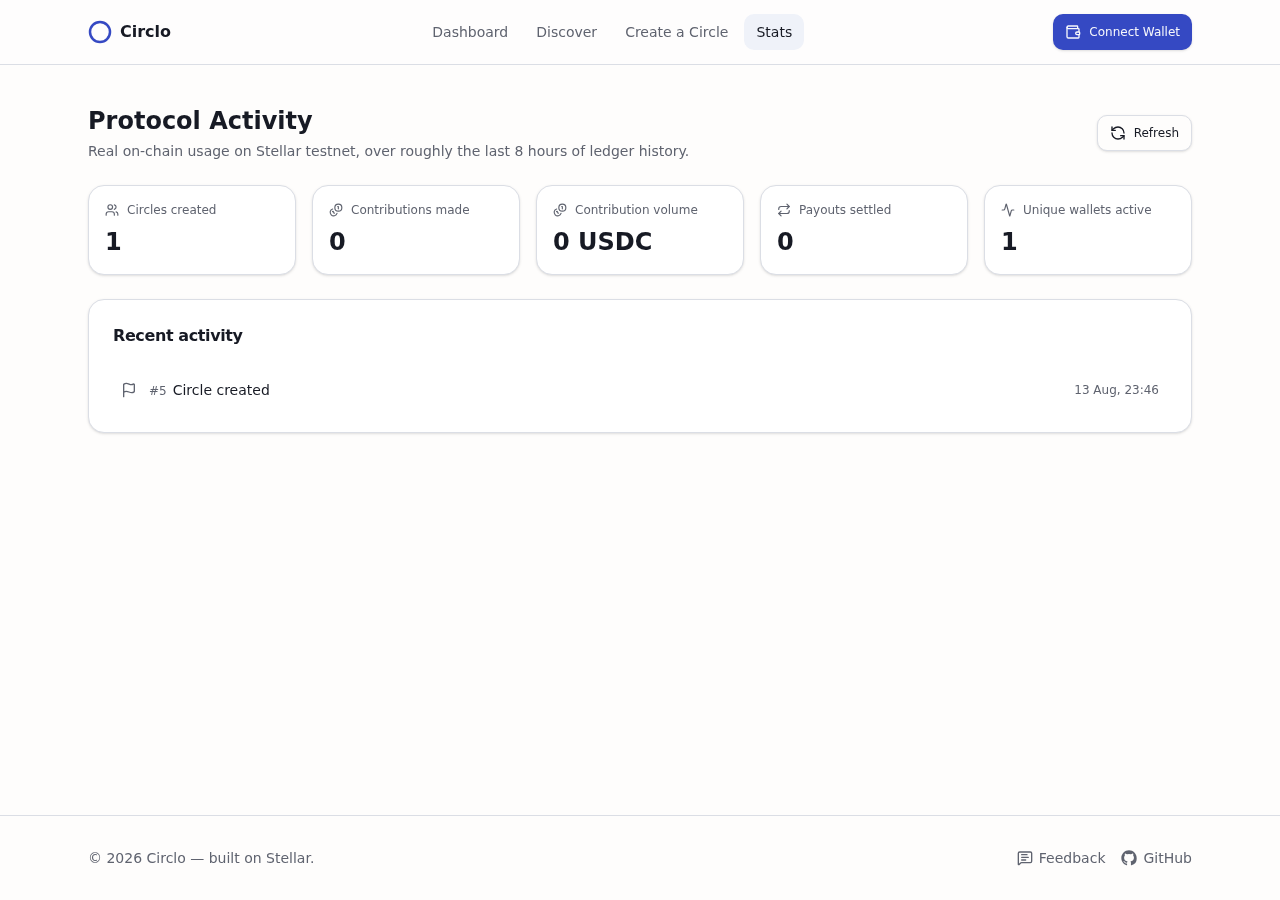
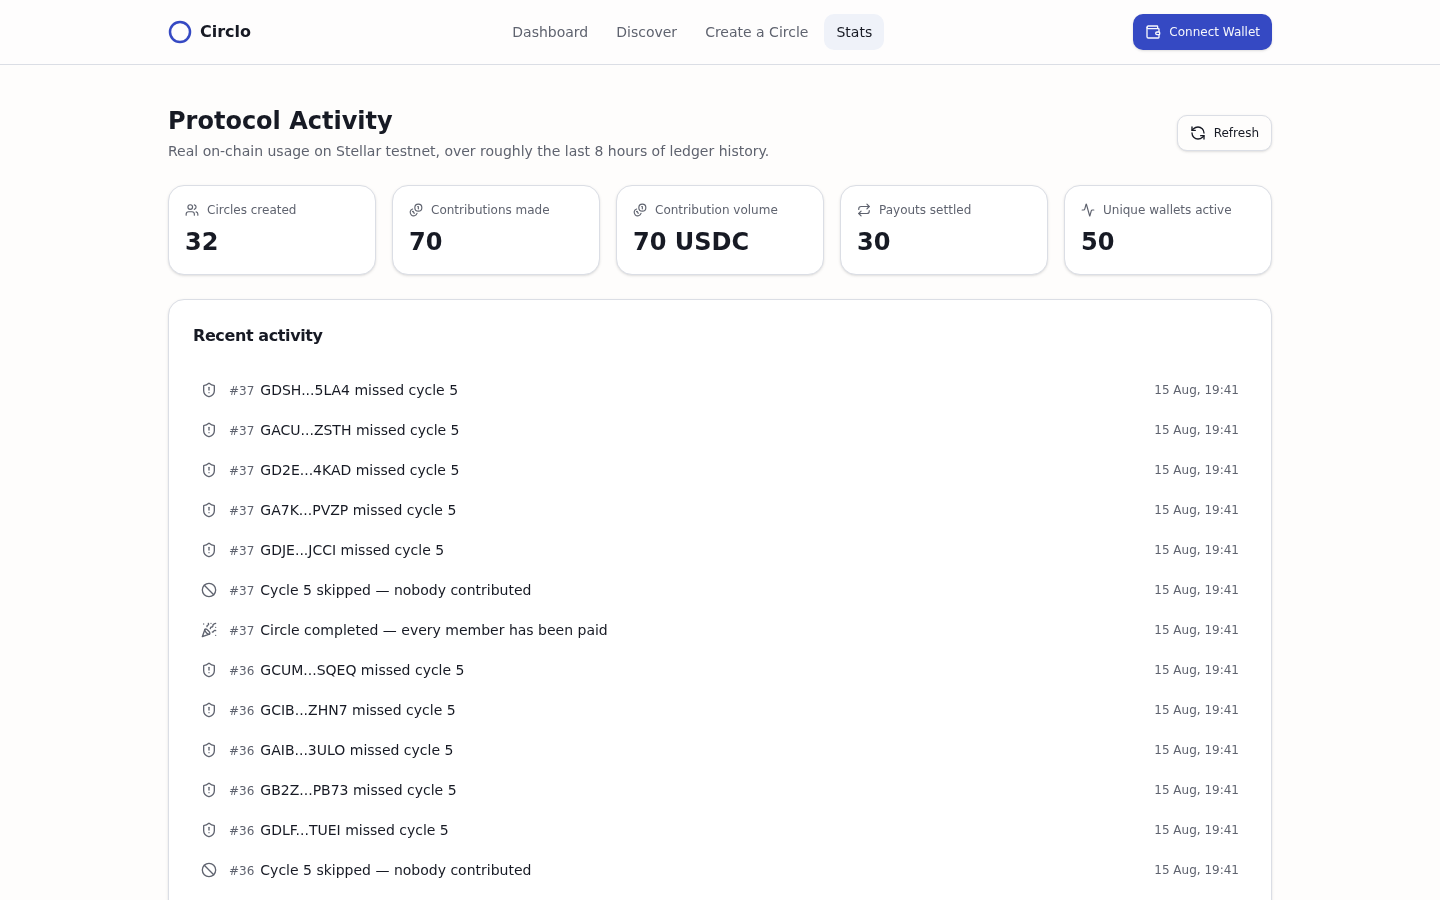
docs: update README for 60-response feedback and 50-user milestone
- Refresh stats screenshot showing 50 unique wallets on testnet
- Add raw Google Form responses CSV next to the Excel export
- Update feedback summary: 60 responses, 4.8/5 average, all recommend
- Mark the 50+ user growth target as achieved in the README

diff --git a/README.md b/README.md
@@ -11,7 +11,7 @@ transparently and without a single point of failure.
 **Deployed contract (Stellar testnet):**
 [`CC3JCXU6XMMBZDRSFLNE36DQUGIY3HQ3HAIXGFHJBF4TRQD6TFMXS53P`](https://stellar.expert/explorer/testnet/contract/CC3JCXU6XMMBZDRSFLNE36DQUGIY3HQ3HAIXGFHJBF4TRQD6TFMXS53P)
 **Feedback form:** [forms.gle/DvrEyV5fqrnumpGL7](https://forms.gle/DvrEyV5fqrnumpGL7)
-**Feedback export (Excel):** [docs/feedback/circlo-feedback-responses.xlsx](docs/feedback/circlo-feedback-responses.xlsx)
+**Feedback export (Excel):** [docs/feedback/circlo-feedback-responses.xlsx](docs/feedback/circlo-feedback-responses.xlsx) · [raw form responses (CSV)](docs/feedback/Circlo%20User%20Survey.csv)
 **Pitch deck:** [circlo-five.vercel.app/pitch.html](https://circlo-five.vercel.app/pitch.html) ([source](docs/pitch/circlo-pitch.html))
 
 ## Screenshots
@@ -276,19 +276,21 @@ in [this spreadsheet](https://docs.google.com/spreadsheets/d/1iywgRI2UVUCP-MnDdn
 and exported to
 [`docs/feedback/circlo-feedback-responses.xlsx`](docs/feedback/circlo-feedback-responses.xlsx).
 
-### Summary (10 responses so far)
+### Summary (60 responses so far)
 
-- **4.9 / 5 average rating** (nine 5s, one 4); all 10 said they'd recommend
+- **4.8 / 5 average rating** (49 fives, 11 fours); all 60 said they'd recommend
   Circlo to others.
-- **No bugs reported** by any of the 10 respondents — several explicitly
+- **No bugs reported** by any of the 60 respondents — several explicitly
   called the flow "seamless" / "smooth."
-- **Most-liked:** the simplicity of the UI, the activity feed (seeing
-  exactly when someone joined/contributed/a circle was created), the
-  payout-order visibility, and the trustline error message being caught
-  and explained clearly instead of failing silently.
-- **Most requested:** a discovery page, a dispute mechanism, clearer
-  messaging that payout doesn't need admin approval, and (from one
-  respondent) a more familiar sign-in pattern.
+- **Most-liked:** the simplicity of the UI, the group-savings concept, the
+  activity feed (seeing exactly when someone joined/contributed/a circle was
+  created), the payout flow and payout-order visibility, and the trustline
+  error message being caught and explained clearly instead of failing
+  silently.
+- **Most requested:** a discovery page, a dispute mechanism, auto-payout
+  without admin approval, clearer messaging that payout doesn't need admin
+  approval, "sign in with Google", in-app notifications, a mobile app, and
+  more payment options for funding.
 
 ### What shipped in direct response, with commits
 
@@ -319,8 +321,12 @@ and exported to
 
 ## 10. User growth
 
-**Target:** 50+ onboarded testnet users with real transaction activity for
-this submission cycle (up from 10 in the Level 4 cohort).
+**Achieved:** 50+ onboarded testnet users with real transaction activity for
+this submission cycle (up from 10 in the Level 4 cohort). The
+[`/stats`](https://circlo-five.vercel.app/stats) page shows **50 unique
+wallets active**, 32 circles created, 70 contributions (70 USDC), and 30
+payouts settled — see
+[`docs/screenshots/stats.png`](docs/screenshots/stats.png).
 
 **Channels:**
 - Direct outreach to the existing 10-person cohort to bring a friend each
@@ -341,8 +347,7 @@ created, contributions made, contribution volume, payouts settled, and
 unique wallets active, plus a live activity feed, all read directly from
 contract events. Screenshots of this page (and of the feedback
 spreadsheet's wallet-address column) are the evidence for "50+ users, real
-transaction activity" once the growth push is complete:
-_add screenshots here once the 50-user threshold is reached_.
+transaction activity."
 
 ## 11. Roadmap
 
